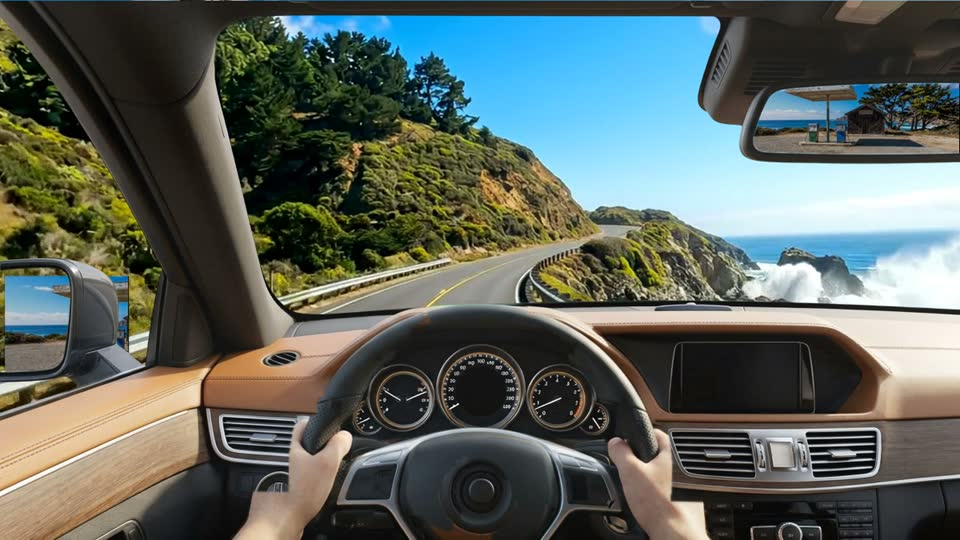
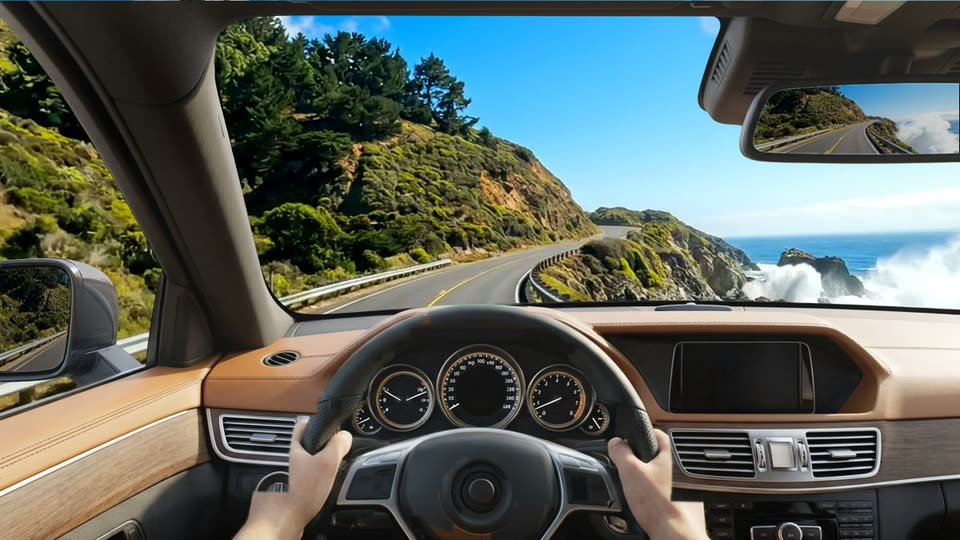
Fix the mirrors and retake the Carmel clip in the sample session
- session.sh ran the whole joined plate backwards for the mirror feed,
  so the first scene's mirrors showed the last one (the gas station on
  the Big Sur cliff). Each clip now runs backwards on its own, dissolved
  on the same joins.
- The touring-sedan's door-mirror box took in a strip of the side
  window, which showed as a hard-edged rectangle next to the mirror. It
  now covers the glass only ([0, 335, 100, 130]).
- The Footage Study records the Carmel retake (Veo 3.1 Lite, new seed
  and a "stays rooted" line; clean), the two mirror fixes, and a new
  session frame. The standard says to reverse each clip on its own and
  to hold the last moving clip's road at stops.

diff --git a/docs/site/footage-study.html b/docs/site/footage-study.html
@@ -303,13 +303,15 @@ a{color:var(--blue)}
   <tr><th>Shot</th><th>Model</th><th class="n">Cost</th><th>Read</th></tr>
   <tr><td>Cruise A, Cruise B (8 s)</td><td>Veo 3.1 Lite</td><td class="n">$0.48</td><td><span class="pill ok">waves and rail</span> Two different sets break during each clip; the rail slides past cleanly.</td></tr>
   <tr><td>Transition Big Sur → Carmel (8 s)</td><td>Veo 3.1 Lite</td><td class="n">$0.24</td><td><span class="pill ok">ok</span> Granite and cypress arrive as the surf fades.</td></tr>
-  <tr><td>Carmel cruise (8 s)</td><td>Veo 3.1 Lite</td><td class="n">$0.24</td><td><span class="pill no">ghost</span> A translucent cypress crosses the road mid-clip. Retake.</td></tr>
+  <tr><td>Carmel cruise (8 s)</td><td>Veo 3.1 Lite</td><td class="n">$0.24</td><td><span class="pill no">ghost</span> A translucent cypress crosses the road mid-clip.</td></tr>
+  <tr><td>Carmel cruise, retake (8 s)</td><td>Veo 3.1 Lite</td><td class="n">$0.24</td><td><span class="pill ok">clean</span> A new seed, and one more line in the prompt: every tree, rock and post stays rooted, and nothing fades in or crosses the road. Clean at 6 fps. Halfway through, the road turns inland and the cove leaves the frame.</td></tr>
   <tr><td>Stop-in (10 s)</td><td>Seedance 2.0 Fast</td><td class="n">$0.91</td><td><span class="pill ok">pulls in</span> From the approach anchor, slows and rolls under the canopy. The "stop already in view" anchor rule works.</td></tr>
   <tr><td>Hold (12 s)</td><td>Seedance 2.0 Fast</td><td class="n">$1.09</td><td><span class="pill ok">still</span> Clouds and cypress move, nothing else.</td></tr>
   <tr><td>Cruise A (12 s)</td><td>HeyGen Video</td><td class="n">$0.18</td><td><span class="pill ok">waves and rail</span> Holds the palette; slightly softer than Veo.</td></tr>
   <tr><td>Hold (12 s)</td><td>HeyGen Video</td><td class="n">$0.18</td><td><span class="pill no">drifts</span> Reverses out onto the road. HeyGen can't hold a camera still; holds stay with Seedance.</td></tr>
 </table></div>
-<p>The six good shots, dissolved and composited with cockpit v4, make the 49-second <code>session-v4.mp4</code>: two Big Sur cruises with crashing waves, the transition, Carmel, the pull-in and the hold at the pumps. Round cost $3.30; the day's total is about $13.</p>
+<p>The six good shots, dissolved and composited with cockpit v4, make the 49-second <code>session-v4.mp4</code>: two Big Sur cruises with crashing waves, the transition, Carmel, the pull-in and the hold at the pumps. Round cost $3.54 with the Carmel retake; the day's total is about $13.</p>
+<p>Two mirror fixes came with the retake. The first render ran the whole 49-second plate backwards for the mirrors, so on the Big Sur cliff they showed the gas station; now each clip runs backwards on its own, dissolved on the same joins. And the door mirror's box took in a strip of the side window, which showed as a hard-edged rectangle; it now covers the glass only. At the stop the mirrors still show the station, because those clips face it. The renderer should hold the last stretch of road there instead.</p>
 
 <h3>The plan, as run</h3>
 <div class="scroll"><table>
@@ -335,7 +337,7 @@ a{color:var(--blue)}
   <tr><td>Join style default: anchored or dissolve?</td><td>Dissolve, judged on the composited sessions. <span class="pill ok">decided</span></td></tr>
   <tr><td>Plate model for VibeTour Originals</td><td>Per slot family. With dissolve joins, HeyGen Video is back in the running for cruise plates. <span class="pill ok">decided</span></td></tr>
   <tr><td>Cockpit framing</td><td>Straight ahead, wheel centred, forearms out of frame. The left-shift idea is dropped: it turns the cabin. <span class="pill ok">decided</span></td></tr>
-  <tr><td>Mirrors</td><td>Road behind, from the time-reversed plate, inside the glass only. The side window is a window: the plate shows through it. <span class="pill ok">done</span></td></tr>
+  <tr><td>Mirrors</td><td>Road behind, from each clip run backwards on its own, inside the glass only. The side window is a window: the plate shows through it. <span class="pill ok">done</span></td></tr>
   <tr><td>Palette</td><td>Vivid midday as the default look, named in the prompts. Golden hour and night become variants. <span class="pill ok">decided</span></td></tr>
   <tr><td>Cabin materials</td><td>Leather, wood, metal, lit cluster, named in the cockpit prompt. <span class="pill ok">done</span></td></tr>
   <tr><td>Lens flare</td><td>Per variant, on only with the sun in frame. <span class="pill ok">decided</span></td></tr>

diff --git a/docs/journey-video-standard.md b/docs/journey-video-standard.md
@@ -236,7 +236,7 @@ For maintainers and car designers. Packs don't ship cockpits; VibeTour does, one
 **At play time** the renderer:
 
 1. Draws the plate, **centred so its vanishing point sits over the wheel hub**. This is what keeps the car pointing down the road.
-2. Fills each mirror with the plate run backwards (what a mirror shows is the road receding), darkened 20%: the centre of the frame for the rear-view, the left edge for the door mirror. The side window is a window; the plate shows through it.
+2. Fills each mirror with the current clip run backwards (what a mirror shows is the road receding), darkened 20%. Reverse each clip on its own, never the joined session, which would put a later scene behind the car. At stops and holds, which face the stop, hold the last moving clip's road instead. Use the centre of the frame for the rear-view, the left edge for the door mirror. The side window is a window; the plate shows through it.
 3. Draws the cabin with a faint, neutral light bleed (the blurred plate at 15%, luminance only) so the dash takes the scene's light without taking its colour.
 4. Draws the wheel-and-hands cutout rotated about the hub by the clip's **steering track**: the plate's camera yaw per frame, from dense optical flow on the band around the horizon, smoothed over half a second, scaled so the 97th percentile is ±12.5°. The wheel holds through curves and comes back to centre only when the road straightens. At stops the wheel centres and a "hands resting" still crossfades in. The player holds the wheel through each dissolve.
 5. Adds a windshield bloom from the plate's near-white highlights, on the glass only, desaturated.
